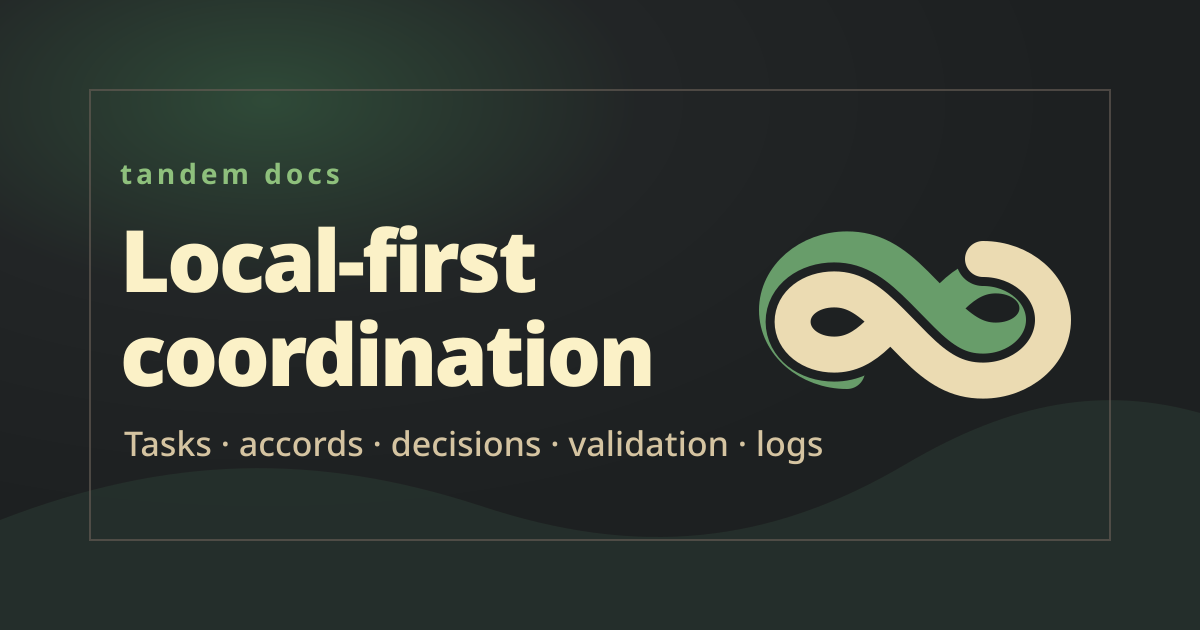
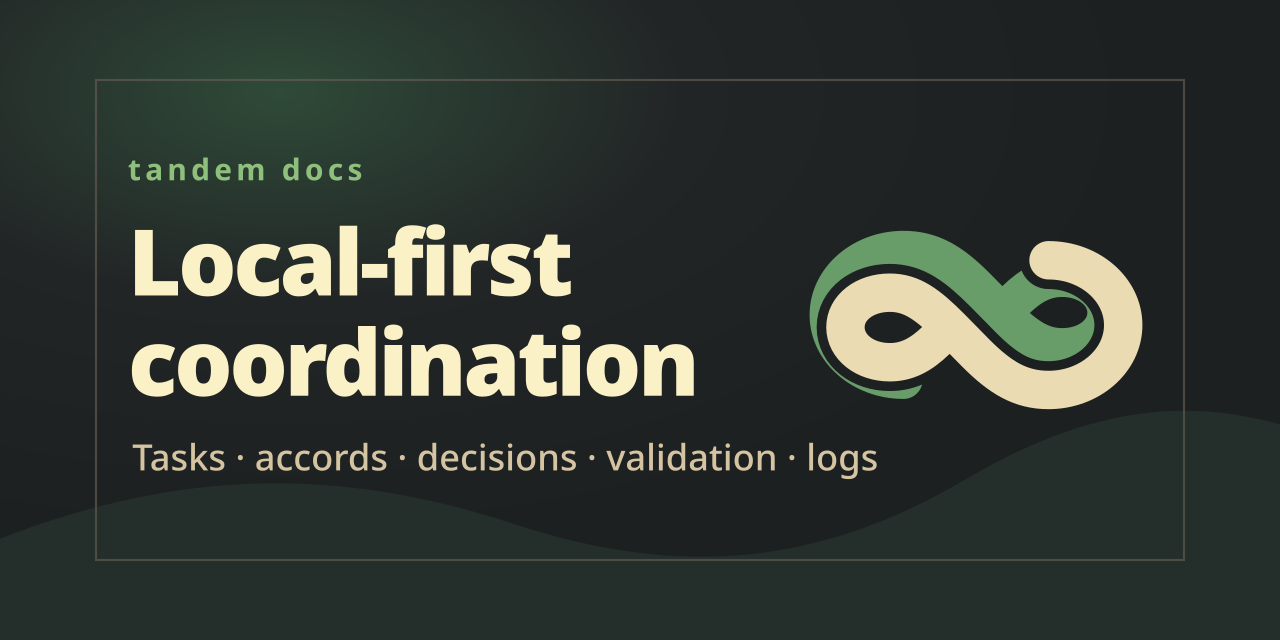
Export the GitHub social preview at 1280 by 640

diff --git a/docs/brand/README.md b/docs/brand/README.md
@@ -6,7 +6,7 @@ The current mark is the interlaced-strands artwork used by the site and repo; th
 - `tandem-mark-light.svg` — reference copy of the active light mark
 - `current-lockup-dark.png` — original high-resolution dark lockup render from task-110
 - `current-lockup-light.png` — original high-resolution light lockup render from task-110
-- `site/public/social-card.png` — 1200×630 PNG export of the active social preview SVG for platform upload
+- `site/public/social-card.png` — 1280×640 PNG export of the active social preview SVG for platform upload
 - `comparison-current-marks.png` — original task-110 comparison of the cassette banner and current site mark
 - `exploration-1-twin-t.png` — historical twin-t exploration board, not adopted
 - `exploration-2-weave.png` — historical weave exploration board, not adopted
